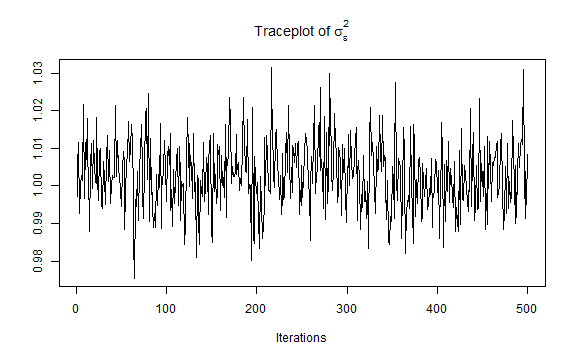
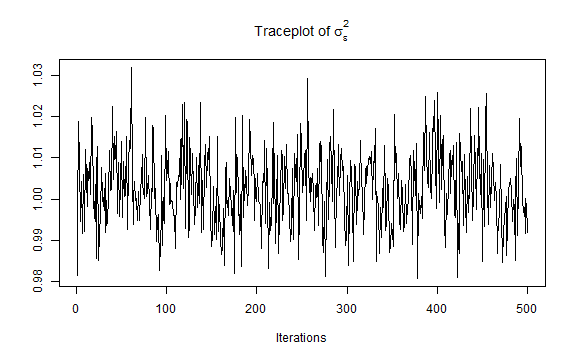
Update

diff --git a/dynamic_twopart.md b/dynamic_twopart.md
@@ -351,10 +351,10 @@ cbind(summary(alpha.mcmc)$quant, alpha)
 
 
 {% highlight text %}
-##             2.5%        25%        50%        75%      97.5% alpha
-## int   0.43667047 0.46759930 0.48504669 0.49987207 0.53040524  0.50
-## c_age 0.03701827 0.04240177 0.04554813 0.04879016 0.05514034  0.05
-## l_d   0.47623616 0.50304348 0.51558136 0.53004923 0.55465324  0.50
+##             2.5%       25%        50%        75%      97.5% alpha
+## int   0.44046571 0.4722581 0.48636551 0.50258775 0.53487785  0.50
+## c_age 0.03893628 0.0450013 0.04838949 0.05156439 0.05795736  0.05
+## l_d   0.46599560 0.4957959 0.50779076 0.52182250 0.54288219  0.50
 {% endhighlight %}
 
 
@@ -366,10 +366,10 @@ cbind(summary(beta.mcmc)$quant, beta)
 
 
 {% highlight text %}
-##            2.5%        25%        50%        75%     97.5% beta
-## int   5.9433682 5.96312116 5.97560613 5.98680677 6.0071493 6.00
-## c_age 0.0871133 0.09194349 0.09420716 0.09663533 0.1014231 0.10
-## l_ly  0.2469678 0.24913068 0.25051688 0.25187327 0.2548241 0.25
+##             2.5%       25%       50%       75%     97.5% beta
+## int   5.97318381 5.9944066 6.0052975 6.0169836 6.0404721 6.00
+## c_age 0.09617806 0.1005619 0.1028311 0.1053711 0.1100077 0.10
+## l_ly  0.24661444 0.2495093 0.2511423 0.2526172 0.2553920 0.25
 {% endhighlight %}
 
 
@@ -382,7 +382,7 @@ c(summary(sigma2.mcmc)$quant, sigma2)
 
 {% highlight text %}
 ##      2.5%       25%       50%       75%     97.5%           
-## 0.9850542 0.9966137 1.0027020 1.0084922 1.0213431 1.0000000
+## 0.9849518 0.9960281 1.0024497 1.0091080 1.0211294 1.0000000
 {% endhighlight %}
 
 
@@ -395,10 +395,10 @@ cbind(summary(Sigma.mcmc)$quant, c(Sigma))
 
 {% highlight text %}
 ##              2.5%       25%       50%       75%     97.5%     
-## Sigma11 0.4509504 0.4725421 0.4884947 0.5036067 0.5391468 0.50
-## Sigma12 0.2075306 0.2199094 0.2265067 0.2338062 0.2480678 0.25
-## Sigma12 0.2075306 0.2199094 0.2265067 0.2338062 0.2480678 0.25
-## Sigma22 0.2612393 0.2715018 0.2778633 0.2849412 0.2952004 0.30
+## Sigma11 0.4384404 0.4661165 0.4820910 0.4999167 0.5439414 0.50
+## Sigma12 0.2193016 0.2323016 0.2398776 0.2474791 0.2615161 0.25
+## Sigma12 0.2193016 0.2323016 0.2398776 0.2474791 0.2615161 0.25
+## Sigma22 0.2787302 0.2915340 0.2988604 0.3068722 0.3204585 0.30
 {% endhighlight %}
 The estimated parameters seem to be converging to their true values, which suggests that the Bayesian algorithm is working as intended. 
 
